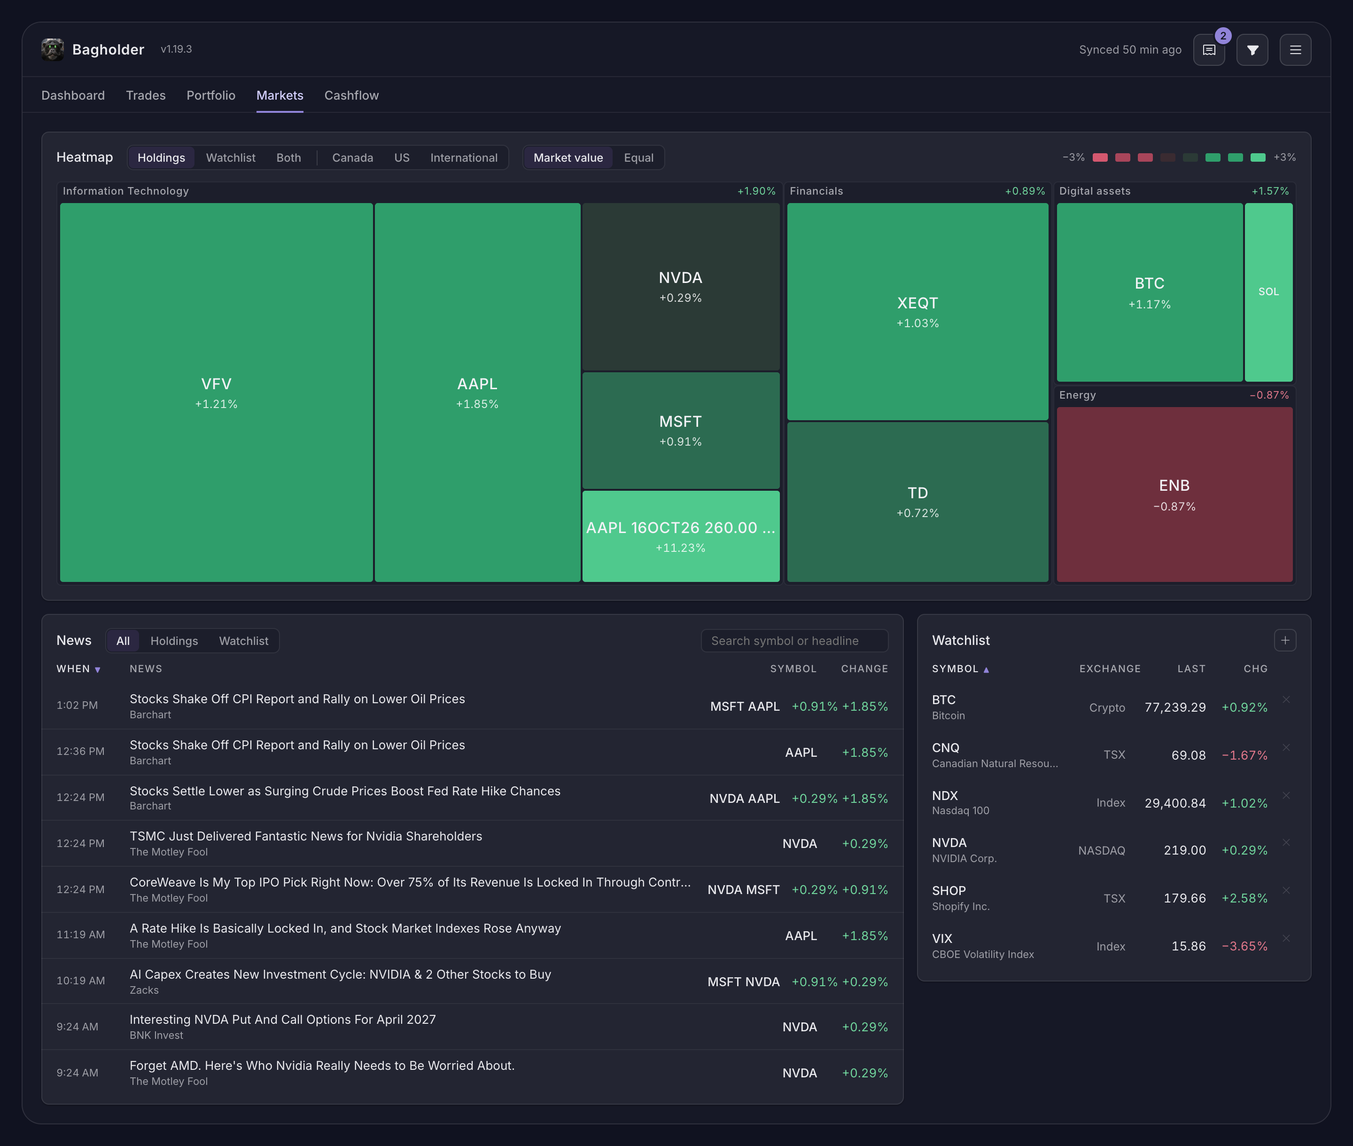
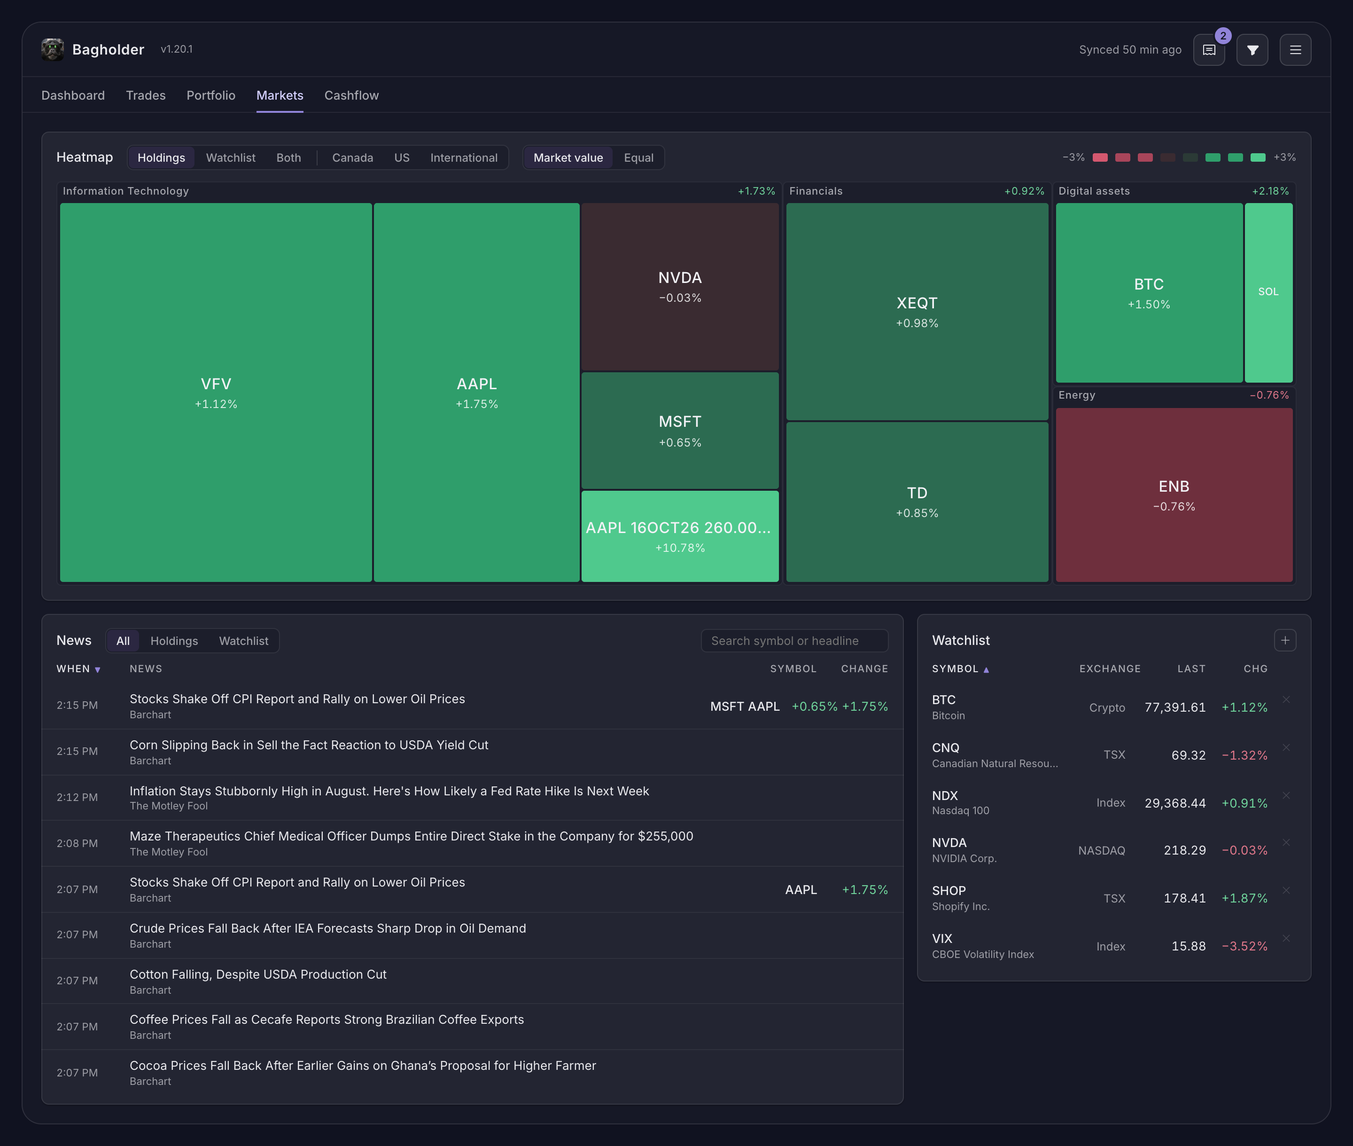
News: All is the market's feed; Holdings and Watchlist are only their listings' stories.
All showed the union of every tracked listing's stories, so with the watched
US names posting most often it opened on the same rows as Watchlist. Now All
is Nasdaq's latest-news feed, read as a listing of its own (fifty items, no
symbol tag, nothing selected for); Holdings and Watchlist are unchanged and
show only what was read for those listings. TMX has no market-wide feed, so
Canadian market news still arrives only through the listings.

A market item carries no tag; the same story read for a listing is one row,
tagged, and still the market's. Rows without a symbol sort last on Symbol.
PROTOCOL bumped: page and server changed together.

diff --git a/ledger.html b/ledger.html
@@ -367,7 +367,7 @@ const state = {
   theme: "nocturne",
 };
 const THEMES = [["nocturne", "Nocturne", "#161826"], ["midnight", "Midnight", "#0b0d12"], ["light", "Light", "#eef0f5"]];
-const PROTOCOL = "2026-09-11.4"; // must match bagholder.PROTOCOL
+const PROTOCOL = "2026-09-11.5"; // must match bagholder.PROTOCOL
 const TIMEFRAMES = [["1h", "1H"], ["4h", "4H"], ["1d", "1D"], ["1w", "1W"], ["1M", "1M"]];
 // The default timeframe follows the trade's length so the whole trade fits the
 // view; a timeframe the user picks is kept for that trade while the page is open.
@@ -2449,7 +2449,8 @@ function newsCardHtml(items) {
   const isOnly = (t) => only && bareSymbol(t.symbol) === only.symbol && String(t.exchange || "").toUpperCase() === only.exchange;
   // the box: a ticker first (a listing's symbol starting with the text); only when no listing matches, a word of the
   // headline or publisher starting with it, so `SH` is Shopify's news and not every headline with "shake" in it
-  let rows = (items || []).filter((n) => only ? n.tags.some(isOnly) : scope === "all" || n.tags.some((t) => scope === "holdings" ? t.held : t.watched));
+  // All is the market's own feed; Holdings and Watchlist are the stories read for those listings
+  let rows = (items || []).filter((n) => only ? n.tags.some(isOnly) : scope === "all" ? n.market : n.tags.some((t) => scope === "holdings" ? t.held : t.watched));
   if (q) {
     const tokens = q.split(/\s+/);
     const bySym = tokens.length === 1 && q.length <= 5 ? rows.filter((n) => n.tags.some((t) => bareSymbol(t.symbol).startsWith(q))) : [];
@@ -2457,7 +2458,7 @@ function newsCardHtml(items) {
     rows = bySym.length ? bySym : rows.filter((n) => { const h = text(n); return tokens.every((t) => h.indexOf(t) >= 0); });
   }
   const first = (n) => n.tags[0] || {};
-  rows = sortRows(rows, s.key, s.dir, (n, k) => k === "when" ? n.publishedAt : k === "news" ? n.headline.toLowerCase() : k === "symbol" ? bareSymbol(first(n).symbol || "").toLowerCase() : first(n).percentChange);
+  rows = sortRows(rows, s.key, s.dir, (n, k) => k === "when" ? n.publishedAt : k === "news" ? n.headline.toLowerCase() : k === "symbol" ? (first(n).symbol ? bareSymbol(first(n).symbol).toLowerCase() : null) : first(n).percentChange);
   const sym = (t) => '<button class="nw-sym go" data-act="newsSym" data-arg=\'' + attr({ symbol: bareSymbol(t.symbol), exchange: String(t.exchange || "").toUpperCase() }) + "'>" + esc(bareSymbol(t.symbol)) + "</button>";
   const chg = (t) => '<span class="tab" style="font-size:13px;color:' + (t.percentChange == null ? "var(--ink55)" : t.percentChange >= 0 ? "var(--pos)" : "var(--neg)") + '">' + signedPct(t.percentChange) + "</span>";
   // one line per row: the headline cut with an ellipsis, a story two listings share naming both on the line

diff --git a/tests/test_news.py b/tests/test_news.py
@@ -97,6 +97,19 @@ class ModelTest(unittest.TestCase):
                          [("nasdaq:9", [("NVDA", False, True, None, None)]), ("tmx:1", [("SHOP", False, True, 3.28, None), ("HHIS", True, False, 0.6, "p1")])],
                          "newest first; an item two listings share is one row with both tags")
 
+    def test_the_market_feed_is_a_listing_of_its_own_with_no_tag(self):
+        self.assertEqual(news.source_for(*news.MARKET), "nasdaq")
+        data = {"data": {"rows": [{"id": 1, "title": "Stocks Settle Lower", "publisher": "Barchart", "url": "/articles/a", "ago": "7 minutes ago", "related_symbols": ["ryam|stocks"]},
+                                  {"id": 2, "title": "Value ETFs", "publisher": "Zacks", "url": "/articles/b", "ago": "2 hours ago", "related_symbols": ["mu|stocks"]}]}}
+        now = datetime(2026, 9, 11, 16, 0, tzinfo=timezone.utc)
+        self.assertEqual([r["id"] for r in news.parse_nasdaq_news(data, now, "")], ["nasdaq:1", "nasdaq:2"], "asked without a symbol, the feed keeps every item")
+        base = {"news": [{"id": "nasdaq:1", "symbol": "*", "exchange": "MARKET", "wire": "Barchart", "headline": "Stocks Settle Lower", "url": "u1", "publishedAt": "2026-09-11T15:53:00Z"},
+                         {"id": "nasdaq:2", "symbol": "*", "exchange": "MARKET", "wire": "Zacks", "headline": "Value ETFs", "url": "u2", "publishedAt": "2026-09-11T14:00:00Z"},
+                         {"id": "nasdaq:2", "symbol": "MU", "exchange": "NASDAQ", "wire": "Zacks", "headline": "Value ETFs", "url": "u2", "publishedAt": "2026-09-11T14:00:00Z"}]}
+        rows = model.news_rows(base, [], [{"symbol": "MU", "exchange": "NASDAQ", "percentChange": -0.18}])
+        self.assertEqual([(r["id"], r["market"], [t["symbol"] for t in r["tags"]]) for r in rows], [("nasdaq:1", True, []), ("nasdaq:2", True, ["MU"])],
+                         "a market item carries no tag; the same story read for a watched listing is one row, tagged, and still the market's")
+
     def test_the_books_form_and_the_bare_ticker_are_one_listing(self):
         base = {"news": [{"id": "tmx:7", "symbol": "QNC.TO", "exchange": "TSX-V", "wire": "TMX Newsfile", "headline": "Seven", "url": "u7", "publishedAt": "2026-09-08T13:00:00Z"},
                          {"id": "tmx:7", "symbol": "QNC", "exchange": "TSX-V", "wire": "TMX Newsfile", "headline": "Seven", "url": "u7", "publishedAt": "2026-09-08T13:00:00Z"}]}

diff --git a/news.py b/news.py
@@ -17,10 +17,14 @@ TMX_NEWS_QUERY = ("query getNewsForSymbol($symbol: String!, $page: Int!, $limit:
                   "{ news: getNewsForSymbol(symbol: $symbol, page: $page, limit: $limit, locale: $locale) { headline datetime source newsid summary } }")
 TMX_NEWS_URL = "https://money.tmx.com/en/quote/%s/news/%s"
 NASDAQ_NEWS_URL = "https://api.nasdaq.com/api/news/topic/articlebysymbol?q=%s|STOCKS&offset=0&limit=%d"
+NASDAQ_LATEST_URL = "https://api.nasdaq.com/api/news/topic/latestnews?offset=0&limit=%d"
 UA = "Mozilla/5.0 (Macintosh; Intel Mac OS X 10_15_7) AppleWebKit/537.36 (KHTML, like Gecko) Chrome/128.0 Safari/537.36"
 NASDAQ_HEADERS = {"User-Agent": UA, "Accept": "application/json, text/plain, */*", "Origin": "https://www.nasdaq.com", "Referer": "https://www.nasdaq.com/"}
 TMX_HEADERS = {"User-Agent": UA, "locale": "en", "Origin": "https://money.tmx.com", "Referer": "https://money.tmx.com/"}
 PER_SYMBOL = 12
+# the market-wide feed is a listing of its own: Nasdaq's latest news, whatever it names
+MARKET = ("*", "MARKET", "")
+PER_MARKET = 50
 FRESH_MINUTES = 15
 KEEP = 400            # items kept in the database, newest first
 
@@ -98,7 +102,9 @@ def parse_nasdaq_news(data, now=None, symbol=""):
 
 
 def source_for(symbol, exchange, currency):
-    """Which wire answers for a listing: TMX for the Canadian venues it carries, Nasdaq for US ones."""
+    """Which wire answers for a listing: TMX for the Canadian venues it carries, Nasdaq for US ones and for the market feed."""
+    if (symbol, _s(exchange).upper()) == (MARKET[0], MARKET[1]):
+        return "nasdaq"
     form = market.tmx_form(exchange, currency)
     if form == ":US":
         return "nasdaq"
@@ -114,6 +120,10 @@ def fetch_symbol(symbol, exchange, currency, ssl_context=None, now=None):
     if not src or not sym:
         return src, []
     try:
+        if symbol == MARKET[0]:
+            _pace("api.nasdaq.com")
+            text = market._get_text(NASDAQ_LATEST_URL % PER_MARKET, ssl_context, headers=NASDAQ_HEADERS)
+            return src, parse_nasdaq_news(json.loads(text), now, "")
         if src == "tmx":
             _pace("app-money.tmx.com")
             data = market._post_json("https://app-money.tmx.com/graphql",

diff --git a/model.py b/model.py
@@ -35,6 +35,7 @@ from datetime import date, datetime, timedelta, timezone
 import exposure
 import instruments
 import market
+import news
 import store
 
 EPS = 1e-10
@@ -2366,16 +2367,21 @@ def news_rows(base, positions, watch):
     watched = {lk(w["symbol"], w.get("exchange")): w for w in watch}
     rows, by_id = [], {}
     for n in base.get("news") or []:
+        # the market feed's items carry no tag: they are the market's, not a listing's
+        is_market = (_s(n["symbol"]), _s(n.get("exchange")).upper()) == (news.MARKET[0], news.MARKET[1])
         key = lk(n["symbol"], n.get("exchange"))
         p, w = held.get(key), watched.get(key)
-        tag = {"symbol": key[0], "exchange": n.get("exchange") or "", "held": bool(p), "watched": bool(w),
-               "percentChange": p.get("percentChange") if p else (w.get("percentChange") if w else None), "positionId": p["id"] if p else None}
+        tag = None if is_market else {"symbol": key[0], "exchange": n.get("exchange") or "", "held": bool(p), "watched": bool(w),
+                                      "percentChange": p.get("percentChange") if p else (w.get("percentChange") if w else None), "positionId": p["id"] if p else None}
         row = by_id.get(n["id"])
         if row:
-            if not any(lk(t["symbol"], t["exchange"]) == key for t in row["tags"]):
+            if is_market:
+                row["market"] = True
+            elif not any(lk(t["symbol"], t["exchange"]) == key for t in row["tags"]):
                 row["tags"].append(tag)
             continue
-        row = {"id": n["id"], "headline": n.get("headline") or "", "source": n.get("wire") or "", "url": n.get("url") or "", "publishedAt": n.get("publishedAt") or "", "tags": [tag]}
+        row = {"id": n["id"], "headline": n.get("headline") or "", "source": n.get("wire") or "", "url": n.get("url") or "", "publishedAt": n.get("publishedAt") or "",
+               "market": is_market, "tags": [] if is_market else [tag]}
         by_id[n["id"]] = row
         rows.append(row)
     rows.sort(key=lambda r: r["publishedAt"], reverse=True)

diff --git a/tests/test_instruments.py b/tests/test_instruments.py
@@ -11,6 +11,7 @@ import exposure
 import instruments
 import market
 import model
+import news
 import store
 
 
@@ -89,7 +90,7 @@ class ConventionTest(unittest.TestCase):
         self.assertEqual(model.watch_symbols(base), [{"symbol": "CL", "exchange": "NYMEX", "currency": "USD", "kind": "Instrument", "quoteKey": "CL@NYMEX", "yahoo": "CL=F"}])
         rows = model.watch_rows(dict(base, quotes={"CL@NYMEX": {"price": 99.4, "priceChange": 6.37, "percentChange": 6.85}}), [])
         self.assertEqual((rows[0]["sector"], rows[0]["kind"], rows[0]["last"]), ("Commodities", "Commodity", 99.4), "an instrument groups under its kind on the heatmap")
-        self.assertEqual(bagholder.news_listings(), [], "no news wire for a future")
+        self.assertEqual(bagholder.news_listings(), [news.MARKET], "no news wire for a future: only the market feed")
 
     def test_a_coin_from_the_book_is_quoted_by_coinbase(self):
         store.add_watch("BTC", "Crypto", "Bitcoin", "CAD")
@@ -99,7 +100,7 @@ class ConventionTest(unittest.TestCase):
         self.assertEqual(market.quote_symbols_needing_refresh(model.watch_symbols(base)), [("BTC@CRYPTO", "coinbase", "BTC-USD")])
         row = model.watch_rows(dict(base, quotes={"BTC@CRYPTO": {"price": 150000.0}}), [])[0]
         self.assertEqual((row["sector"], row["kind"], row["last"]), ("Digital assets", "Crypto", 150000.0))
-        self.assertEqual(bagholder.news_listings(), [], "no news wire for a coin")
+        self.assertEqual(bagholder.news_listings(), [news.MARKET], "no news wire for a coin: only the market feed")
 
 
 if __name__ == "__main__":

diff --git a/bagholder.py b/bagholder.py
@@ -713,7 +713,7 @@ LOGIN_VIEW_SIZE = (960, 1000)
 
 # Bumped whenever the page and the server change together. The page compares it
 # with what /api/status reports and tells the user to restart when they differ.
-PROTOCOL = "2026-09-11.4"
+PROTOCOL = "2026-09-11.5"
 STARTED_AT = datetime.now(timezone.utc).strftime("%Y-%m-%dT%H:%M:%SZ")
 
 Q_FETCH_ACCOUNT_MARGIN_BUYING_POWER = """
@@ -5442,9 +5442,9 @@ def watch_remove(body):
 
 
 def news_listings():
-    """Every listing whose news is wanted: the shares and funds held, and the watched ones."""
+    """Every listing whose news is wanted: the market feed, the shares and funds held, and the watched ones."""
     base = model.base_model()
-    seen, out = set(), []
+    seen, out = set(), [news.MARKET]
     # one listing, one read, under its bare ticker: the book's QNC.TO and the watchlist's QNC are the same wire
     for p in base.get("positions") or []:
         if p.get("kind") != "Shares":

diff --git a/SPEC.md b/SPEC.md
@@ -225,7 +225,7 @@ A glance at the day across the book and the symbols being followed, on three car
 
 **Heatmap.** A card with the title `Heatmap`, two segmented controls and a legend on one header row, over a 430 px box. The first control picks the universe, in two groups either side of a divider because they answer different questions. The book's: `Holdings` (every open position in scope, the Portfolio's own, sized by market value in CAD), `Watchlist` (the watched listings, every tile the same size, since a listing not held has no market value), `Both` (the holdings, plus each watched listing not held at the smallest holding's size). The market's: `Canada`, the S&P/TSX 60 from TMX Money's own constituents query, each tile sized by its index weight and coloured by the day change of TMX's quote, its sector TMX's; `US`, the hundred largest US companies by market cap from Nasdaq's screener, sized by market cap, day change and sector the screener's; `International`, the hundred largest companies listed in the US from outside the US and Canada, from the same screener. The market universes are read when the server starts and every thirty minutes, and at once when a universe with no rows yet is chosen, the screener in one request and the TSX 60 in one plus a paced quote per constituent, and kept in the database; a market universe not read yet reads `Not read yet.`, and its tiles open nothing. The second picks the size, `Market value` or `Equal`; under `Equal` every tile has the same area. Both choices are remembered in the browser. The legend reads `−3%`, eight swatches through the ramp, `+3%`. The box is a two-level squarified treemap (Bruls, Huizing and van Wijk; largest first): one block per sector, sized by the sector's value, with a 19 px header naming the sector and, right-aligned, its value-weighted day change; inside, one tile per symbol, inset 3 px and 1 px more, sized by value, filled by the day change and carrying the symbol over the change (16 px over 12 px when the tile is wider than 128 and taller than 62; 13 over 11 when wider than 78 and taller than 40; 11 px alone below that). A symbol's sector is the one its exposure record gives most weight to (a fund under the sector it weights most, a coin under `Digital assets`, a contract under its underlying's record, and `Not classified` when there is no record); its day change is the quote's. Two rules keep tiles readable: within a block every position under 1.5% of the block's value folds into one `Other (N)` tile carrying their sum and value-weighted change (one alone keeps its name), and each tile's layout weight is raised to at least `min(total / count, total × minArea / blockArea)` with `minArea = min(52 × the block's short side, 22% of its area)`, so no tile computes much under 52 px on its short side and the smallest tiles are not exactly proportional to value. The same floor applies to the sector blocks over the whole box, so a sector worth one percent of a market is a readable block rather than a sliver. The colour ramp saturates at ±2.5%, four steps each way from the theme's green and red toward the card ground (`|change|` under 0.35%, under 1%, under 2.5%, and beyond), the same on every day; a tile with no quote is the neutral step. Hovering a tile outlines it; clicking a held one opens the holding, a watched one opens nothing. The box lays itself out for its width, again when the window resizes and on every model poll, keeping its place. With nothing in the chosen universe the card reads `No open positions.` or `Nothing watched.`
 
-**News.** The headlines about the listings the book holds and watches, read from two public wires that answer per symbol, so every item is tagged with the listing it was read for and nothing is inferred from a headline: TMX Money's news for Canadian listings (the wires' releases, with an exact time and TMX's own page for the item) and Nasdaq's news for US ones (its publishers, a day and an age, the time taken as the age off the moment it was read, to the minute). Every listing is read when the server starts and then once per fifteen minutes, one request at a time with a pause between, each answer replacing that listing's items; the newest four hundred items are kept in the database and a removed watched listing takes its items with it. The card: the title `News` and a segmented control `All · Holdings · Watchlist` (remembered; `All` is both, since there is no general feed), then a head row and a list scrolling inside the card (436 px at most). The columns, `When · News · Symbol · Change`, sort like every table's, a click on the head, first descending, the arrow on the sorted column, the order remembered, newest first by default: the time (the clock time for today, `Sep 5` for an older day); the headline on one line, cut with an ellipsis, over the wire's publisher, so every row is the same height; then, narrow and at the right edge, the listing the item was read for and its day change in green or red (a dash with no quote), an item two listings share naming both on the line. Clicking a symbol scopes the card to that listing: a chip in the card's header, `Symbol NVDA ×`, in the tab row's chip style, the list showing only that listing's items until the × or a scope button clears it. A search box at the header's right, in ⌘K's box style, narrows the list as text is typed: a single short token that starts a listing's symbol shows that listing's items; anything else shows the items whose headline or publisher contains every word typed, within whatever scope or chip is set. Clicking anywhere else on the row opens the article in a new tab. The News and Watchlist title rows are the same height, so the two head rows sit level. With nothing to show the list reads `No news.`
+**News.** Three feeds under one card. `All` is the market's news: Nasdaq's latest-news feed, fifty items at a read, whatever they name, carrying no symbol tag (TMX has no market-wide feed, so Canadian market news arrives only through the listings below). `Holdings` and `Watchlist` are the headlines about the listings the book holds and watches, read from two public wires that answer per symbol, so every such item is tagged with the listing it was read for and nothing is inferred from a headline: TMX Money's news for Canadian listings (the wires' releases, with an exact time and TMX's own page for the item) and Nasdaq's news for US ones (its publishers, a day and an age, the time taken as the age off the moment it was read, to the minute). The market feed and every listing are read when the server starts and then once per fifteen minutes, one request at a time with a pause between, each answer replacing that feed's items; the newest four hundred items are kept in the database and a removed watched listing takes its items with it. The card: the title `News` and a segmented control `All · Holdings · Watchlist` (remembered), then a head row and a list scrolling inside the card (436 px at most). The columns, `When · News · Symbol · Change`, sort like every table's, a click on the head, first descending, the arrow on the sorted column, the order remembered, newest first by default: the time (the clock time for today, `Sep 5` for an older day); the headline on one line, cut with an ellipsis, over the wire's publisher, so every row is the same height; then, narrow and at the right edge, the listing the item was read for and its day change in green or red (a dash with no quote), an item two listings share naming both on the line. Clicking a symbol scopes the card to that listing: a chip in the card's header, `Symbol NVDA ×`, in the tab row's chip style, the list showing only that listing's items until the × or a scope button clears it. A search box at the header's right, in ⌘K's box style, narrows the list as text is typed: a single short token that starts a listing's symbol shows that listing's items; anything else shows the items whose headline or publisher contains every word typed, within whatever scope or chip is set. Clicking anywhere else on the row opens the article in a new tab. The News and Watchlist title rows are the same height, so the two head rows sit level. With nothing to show the list reads `No news.`
 
 **Watchlist.** Listings followed without being held, and market instruments, kept in the database (symbol, venue, name, currency, when added) so the phones can read them later. The tab's convention for a symbol is the bare ticker with its name beneath and its venue in a column of its own, `QNC` over `Quantum eMotion Corp` then `TSX-V`; Wealthsimple's `.TO` on a dual-listed security is not carried into the list (a row added in that form is stored bare), and the heatmap's tiles read the bare ticker too. Instruments are the indices, futures, rates and currency pairs in the app's directory (`instruments.py`: the S&P 500, Nasdaq 100 and Composite, Dow, Russell 2000, VIX, S&P/TSX Composite, FTSE 100, DAX, Nikkei 225, Hang Seng, Euro Stoxx 50, the dollar index; WTI and Brent crude, natural gas, gold, silver, copper, platinum, corn, wheat; the 10-year Treasury yield; USD/CAD, EUR/USD, GBP/USD, USD/JPY, BTC/USD), each with its usual short symbol, its venue (`Index`, `NYMEX`, `COMEX`, `ICE`, `CBOT`, `FX`) and the aliases people type (`WTI`, `crude`, `oil`, `volatility`, `nasdaq 100`); ⌘K finds them by symbol, name or alias, beside the listings the directories return, with both trade icons off since nothing is traded from them. An instrument's last price and day change come from Yahoo's chart endpoint (its stated last price against its stated previous close), under the app's Yahoo pacing; on the heatmap it sits under its kind, `Indices`, `Commodities`, `Rates` or `Currencies`, and it has no news wire. A coin watched from the book's rows (venue `Crypto`) is quoted by Coinbase as its USD pair, whatever currency the book holds it in (the held position keeps its own), sits under `Digital assets`, and has no sector record or news wire either. The card: the title `Watchlist` and, at the right, a 24 px plus button; a column head `Symbol · Exchange · Last · Chg`; one row per listing, in the order added until a column head is clicked (the columns sort like every table's, first descending, the order remembered), the hover band bleeding to the card's edges: the symbol over its name, each on one line and cut with an ellipsis rather than wrapped, the venue, right-aligned against Last so the name keeps the width, the last price, the day change signed to two decimals in green or red, and a cross at the row's top right, faint until the row is hovered, that removes the listing at once (no confirmation: adding it back is one search away). A row whose listing the book holds opens that holding on click. Last and Chg come from the quote the app keeps for the listing, read from TMX Money or Cboe Canada like a holding's, refreshed on the same clock and once at once when the listing is added; the sector is the classifier's, read once when added and refreshed like a holding's record; either is a dash until it is known. A listing the book also holds on another venue keeps its own quote. The plus opens ⌘K in watch mode: the same box and the same rows, but every symbol row carries one icon, a bookmark, in place of the Buy and Sell pair, lit when the listing is on the list; clicking a row or pressing Enter on the highlighted one adds it, or removes it when lit, and the box stays open for the next; with nothing typed the box lists the watchlist itself under the heading `Watchlist`. Contracts do not appear in watch mode. Closing the box (Esc, a click outside, the funnel) ends watch mode; ⌘K opened any other way is unchanged. The header's badge does not count watched listings.
 
